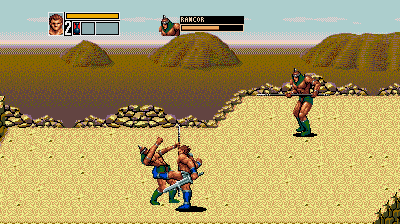
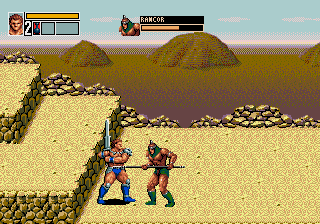
Replace release screenshots

diff --git a/README.md b/README.md
@@ -50,8 +50,8 @@ The patch has been tested in Genesis Plus GX Wide with automated checks for game
 
 ## Screenshots
 
-![Two-player HUD](screenshots/Enemy_HUD_Two_Player_Preview.png)
+![Rancor enemy HUD](screenshots/Enemy_HUD_Preview.png)
 
-![Maximum-health HUD](screenshots/Player_HUD_Max_Health_Preview.png)
+![Fierce Eve enemy HUD](screenshots/Eve_HUD_Preview.png)
 
-![Versus HUD](screenshots/Versus_HUD_Preview.png)
+![Options menu](screenshots/Options_Preview.png)
